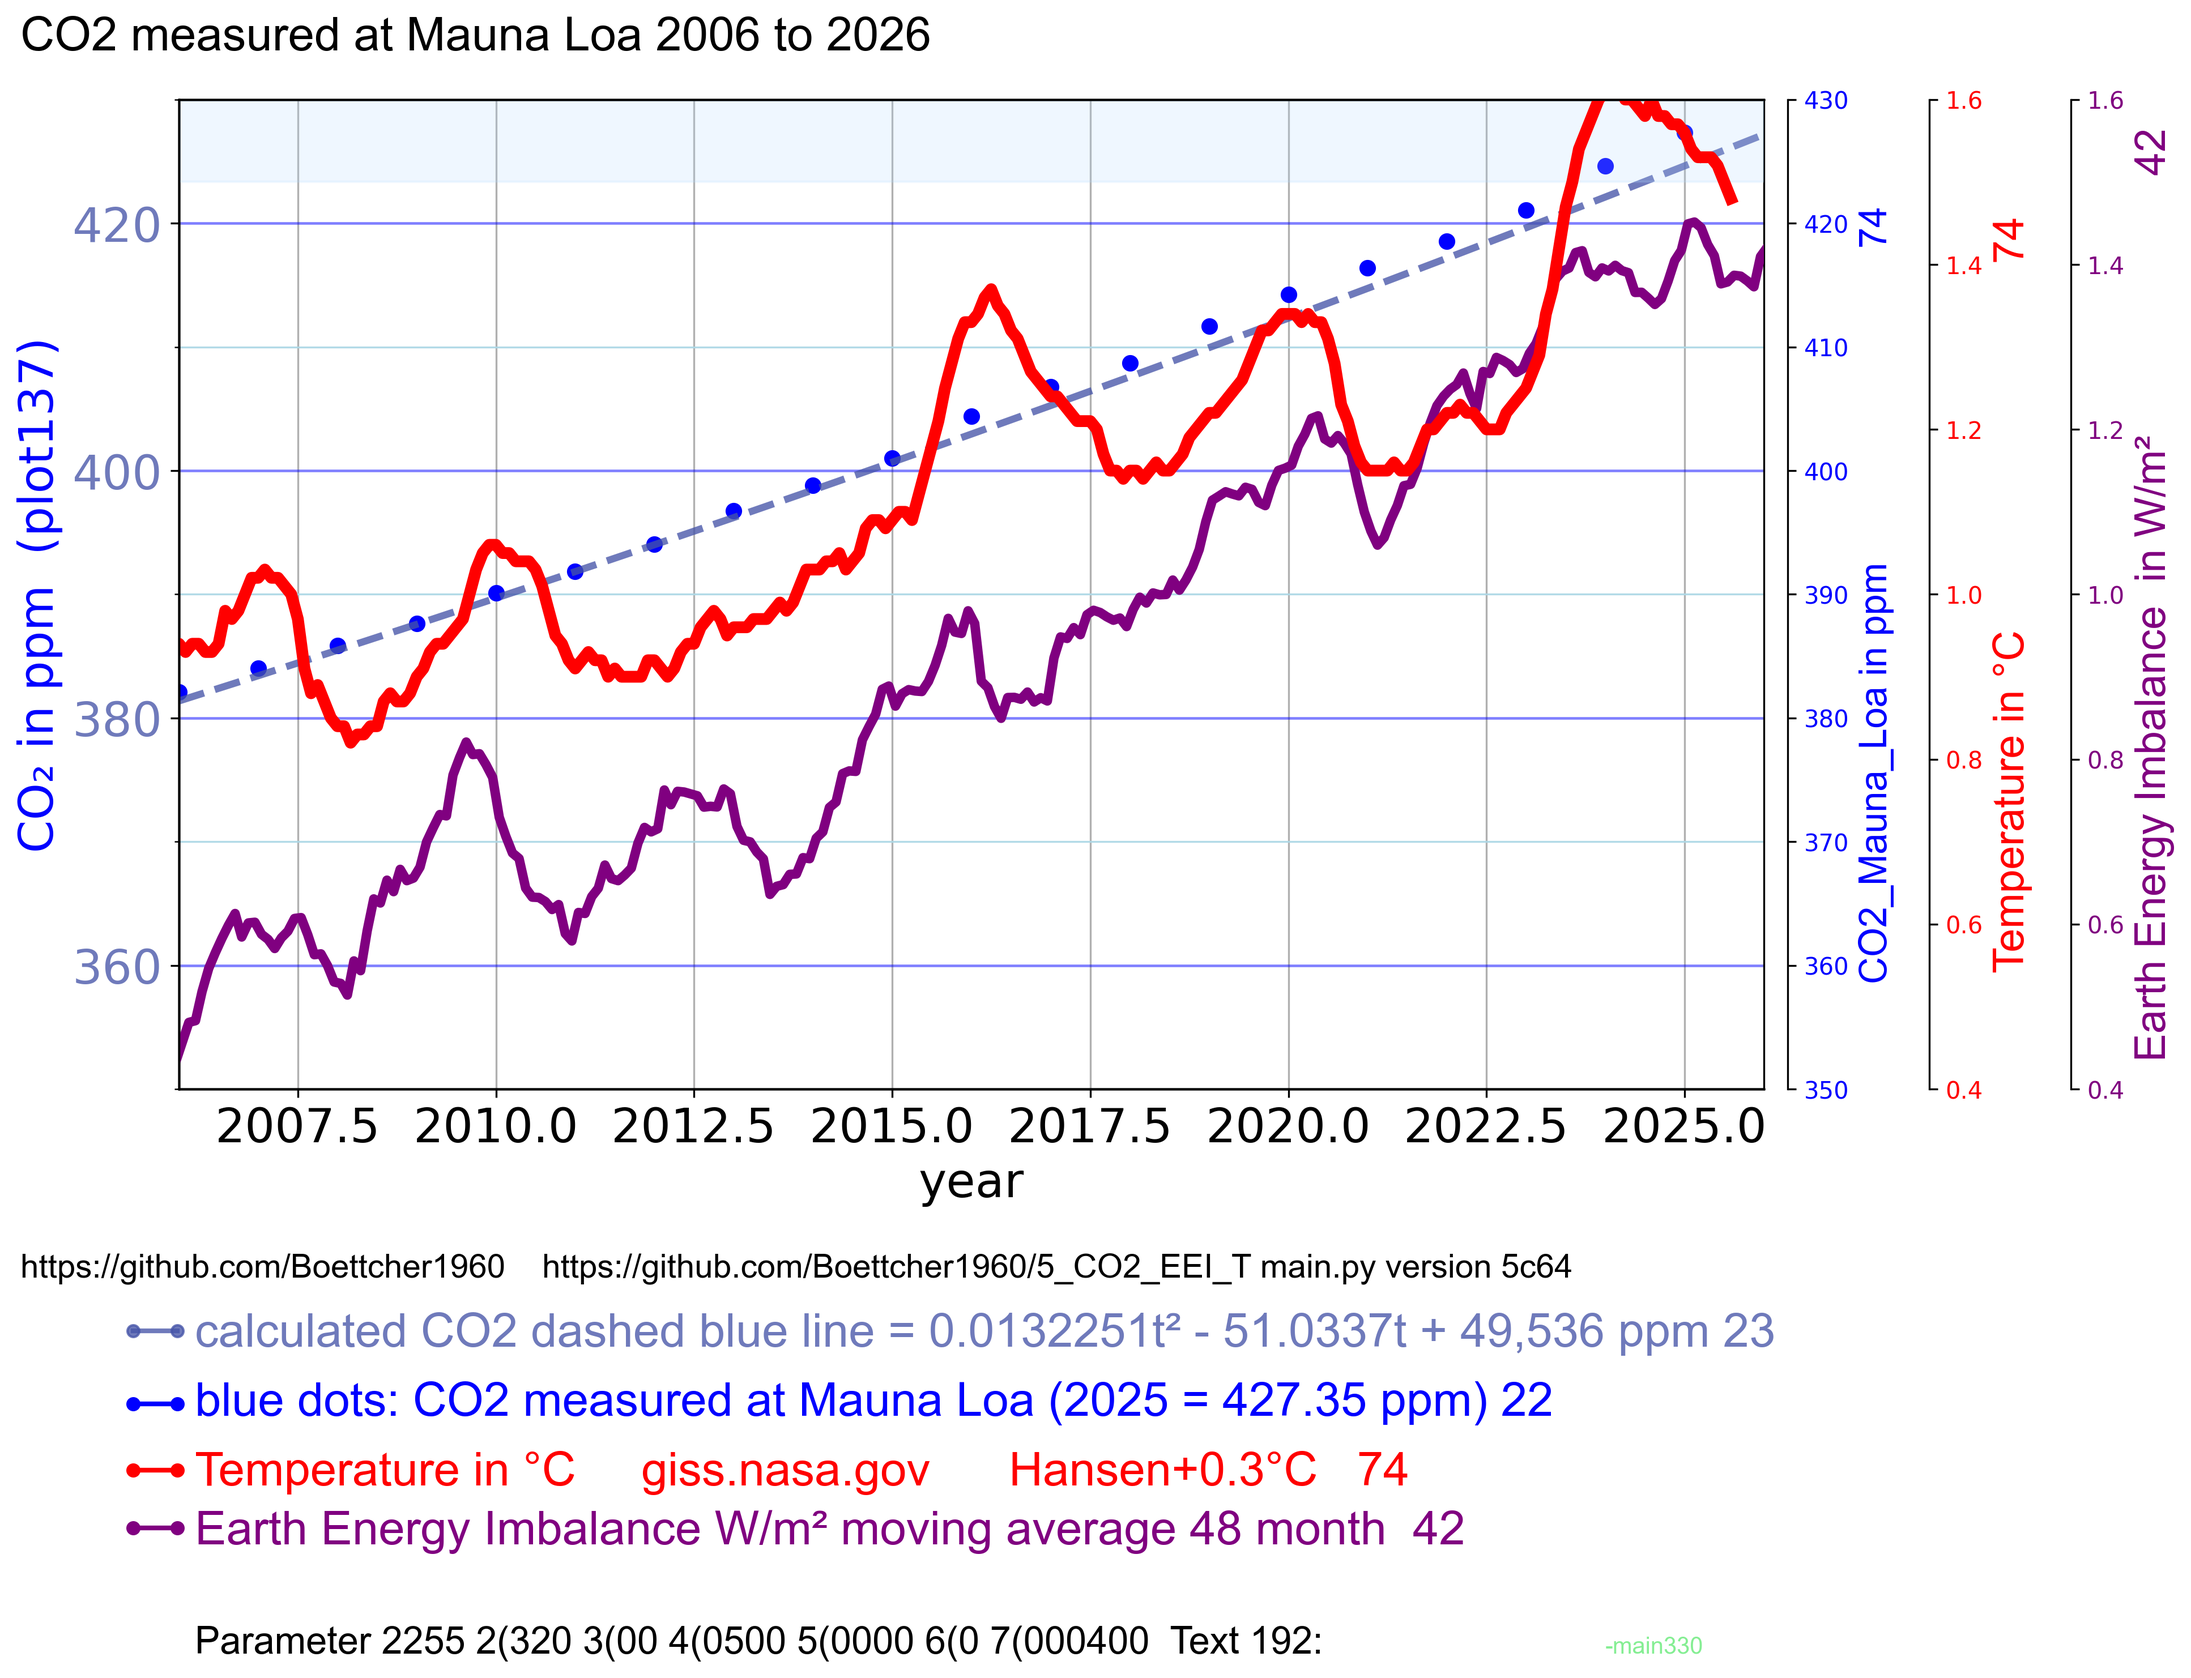
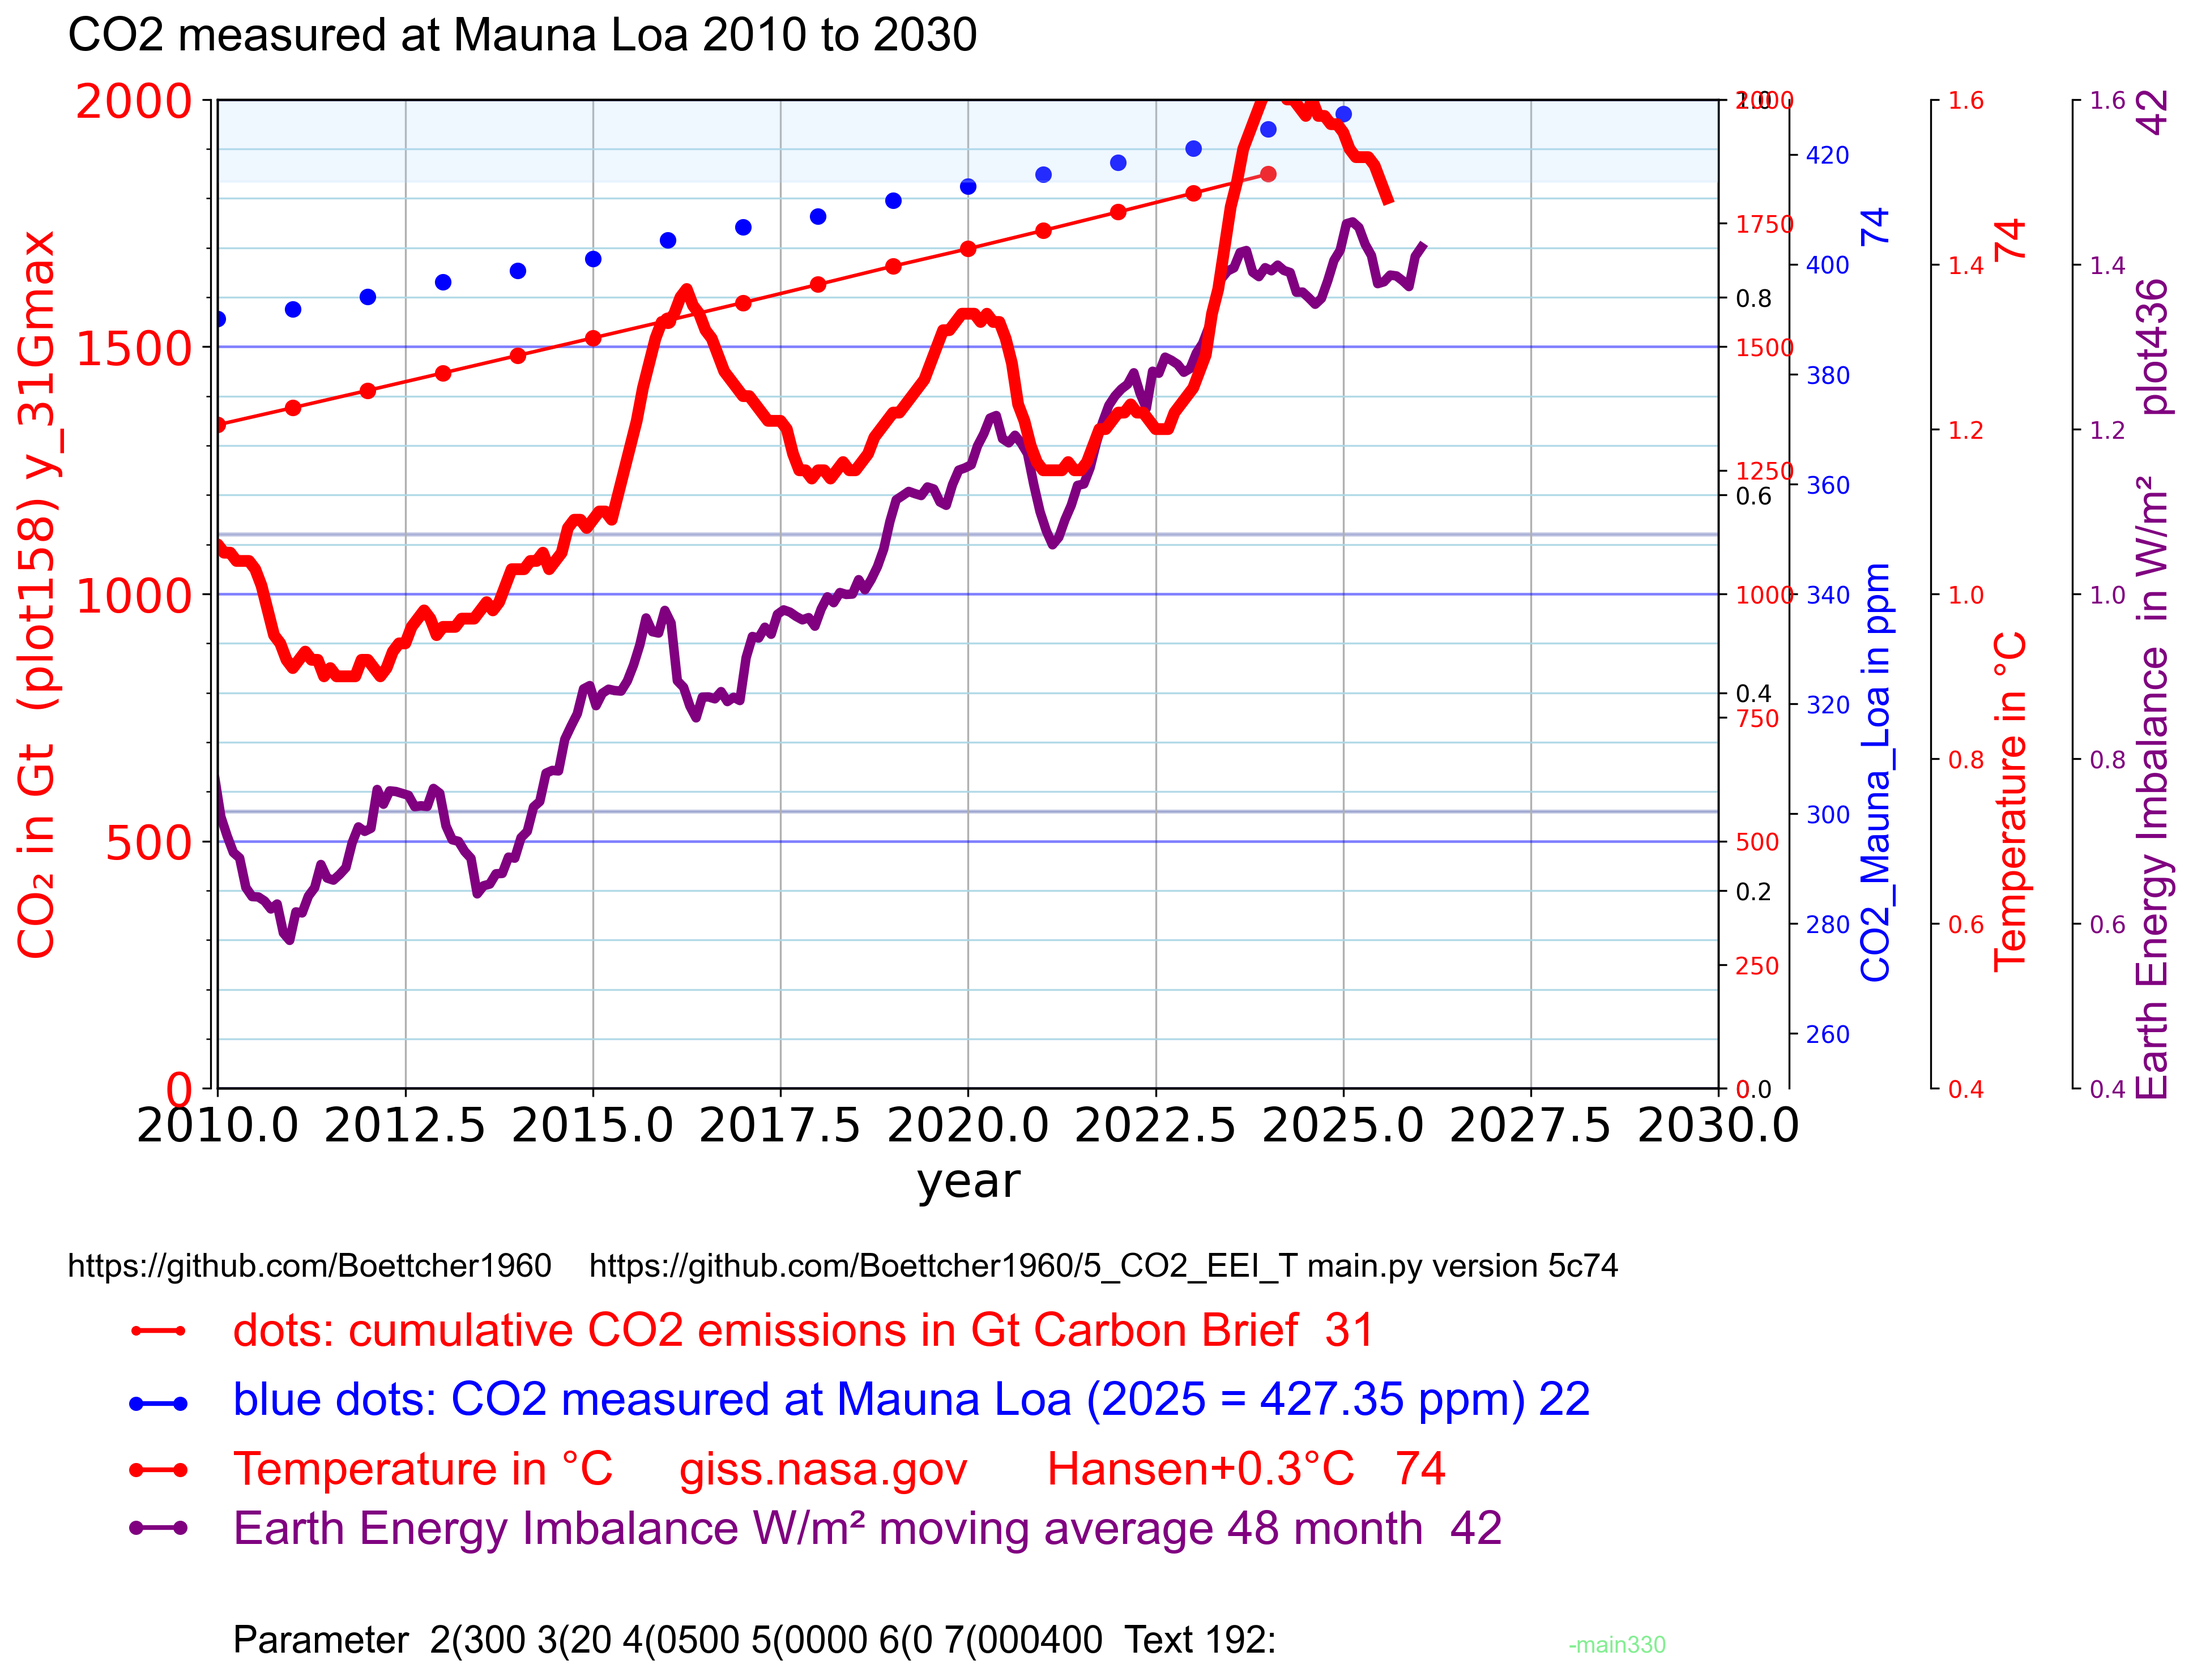
v = "5c74" # y_31Gmax = 2000 # 2500 Gt CO2

diff --git a/config.py b/config.py
@@ -1,9 +1,8 @@
 # config.py 
-# version 5c40
+# version 5c80
 # Configuration parameters for the climate analysis tool
 
 # part61_EEI # like part41_ceres_eei make EEI 120 month csv
-# 
 # line 2 defines the left Y axis. example
 # line 3 defines the right Y axis with 10 pixel to the right of plot area
 # line 4 defines the right Y axis with 70 pixel to the right of plot area
@@ -34,9 +33,9 @@ yr_150    = 150  #  240 - 150 = 90 ( 60 * 4 = 240      plot8_right_y_axe_for_T_7
 # Plot configuration flags
 plot22_CO2_Mauna_Loa = 3 # 22.1 declare global integer variable (2= print in line 2)
 plot23_Glen_CO2 = 0      # 23.1 declare global integer variable (4= print in line 4)
-plot25_long_CO2 = 2      # 25.1 
+plot25_long_CO2 = 0      # 25.1 
 
-plot31_CO2_emission =    0   # 31.1 CO2_emission Carbon Brief
+plot31_CO2_emission =    2   # 31.1 CO2_emission Carbon Brief
 
 plot34_CO2_emission =    0   # 34.1 row 4 # yl_mode = 4
 plot34_CO2_emission_mode = 0 # 34.1 mode 
@@ -127,6 +126,10 @@ y_74max = 1.6
 
 y_Gmin = 0 # 250 ppm CO2  yl_mode == 3:  # CO2 mode
 y_Gmax = 2000 # 2500 Gt CO2  yl_mode == 3:  # CO2 mode
+
+y_31Gmin = 0 # 250 ppm CO2  yl_mode == 3:  # CO2 mode
+y_31Gmax = 2000 # 2500 Gt CO2  yl_mode == 3:  # CO2 mode
+
 
 y_Emin = 0.4 # yl_mode = 4  EEI in W/m2 y axis left mode
 y_Emax = 1.6 # yl_mode = 4  EEI in W/m2 y axis left mode

diff --git a/plotting.py b/plotting.py
@@ -151,6 +151,16 @@ def plot_1_axe(ax1):
         y_minor_ticks = 10
         ax1.yaxis.set_major_locator(MultipleLocator(y_mayor_ticks))
         ax1.yaxis.set_minor_locator(MultipleLocator(y_minor_ticks))
+    elif plot31_CO2_emission == 2:  # 31.5 y axe left 
+        # ax42.spines.right.set_position(("outward", outward_right))
+        ax1.spines.left.set_position(("outward", 3))
+        ax1.set_ylim(y_31Gmin, y_31Gmax)
+        ax1.set_ylabel(" CO₂ in Gt  (plot158) y_31Gmax ", color=c31, fontsize=20)
+        ax1.tick_params(axis="y", labelcolor=c31, labelsize=20)
+        y_mayor_ticks = 500 
+        y_minor_ticks = 100
+        ax1.yaxis.set_major_locator(MultipleLocator(y_mayor_ticks))
+        ax1.yaxis.set_minor_locator(MultipleLocator(y_minor_ticks))
 
 
 

diff --git a/main.py b/main.py
@@ -1,6 +1,6 @@
 # main.py
 # part 1 configure 
-v = "5c73" # yr_60  = 0  # 60 (0=no right yaxis) 60 * 4 = 240 pixel to the right
+v = "5c74" # y_31Gmax = 2000 # 2500 Gt CO2 
 # part 5.3 plot53_CO2_orange2025
 # part 5.4 plot54_Glen_delta_on
 # part 5.5 plot55_population_on human earth population 
